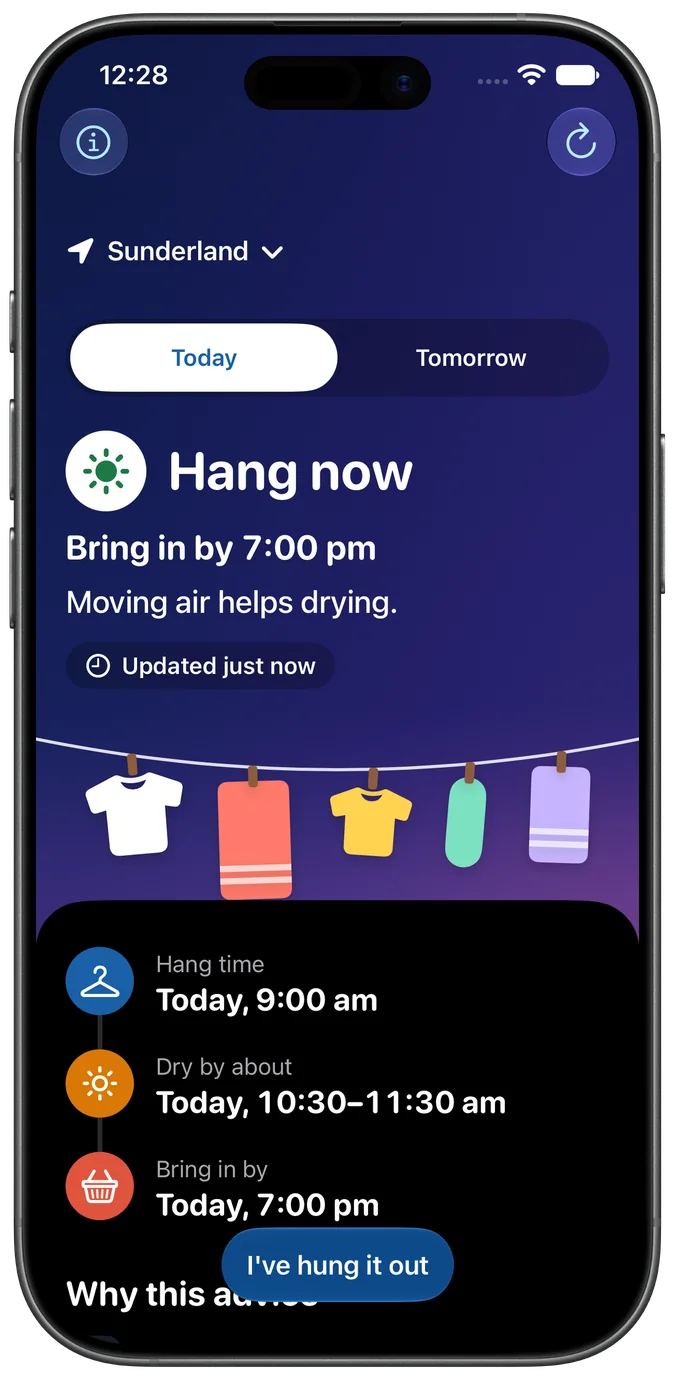
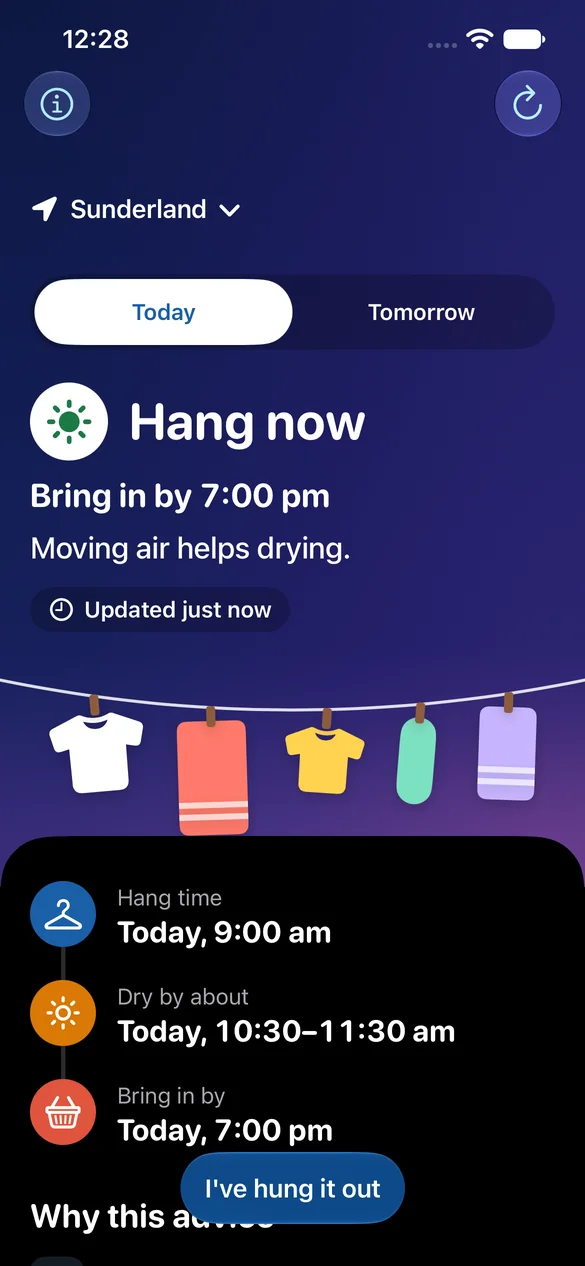
Apply coordinator review of the PegCast page
- Show the phone screens in a neutral rounded frame, with no
  Dynamic Island or buttons, on the page and the Open Graph image.
- Give each light and dark screenshot its own alt text. CSS hides
  the other version, so a screen reader reads only one.
- Give the dark hero images the same loading priority as the light.
- Remove the unused privacy link branch and the .badge rule.
- The canonical URL and og:url stay https://deancod.es/pegcast/.

diff --git a/src/app/pegcast/page.tsx b/src/app/pegcast/page.tsx
@@ -2,7 +2,7 @@ import type { Metadata, Viewport } from "next";
 import { Nunito } from "next/font/google";
 import Link from "next/link";
 import SiteFooter from "@/components/SiteFooter";
-import ThemedImage from "./ThemedImage";
+import ThemedImage, { type Themed } from "./ThemedImage";
 import WashingLine from "./WashingLine";
 import styles from "./pegcast.module.css";
 
@@ -54,19 +54,38 @@ export const viewport: Viewport = {
   ],
 };
 
-/** The PegCast privacy notice. It has no public address until the app's site is published. */
-const privacyNoticeUrl: string | null = null;
-
-const homeAlt =
-  "PegCast Home screen for Sunderland. The sky says Hang now, bring in by 7:00 pm, because moving air helps drying. Below are three times for today: hang at 9:00 am, dry by about 10:30 to 11:30 am, and bring in by 7:00 pm. The button at the bottom says I've hung it out.";
-const loadPlanAlt =
-  "The Load Plan screen. The washing is on the line in Sunderland. Bring in by today, 7:00 pm, checked today at 9:00 am. Two switches, both off, set a reminder at 7:00 pm and show the plan on the Lock Screen.";
-const widgetAlt =
-  "A small Home Screen widget on a blue sky. It says On the line, bring in by today, 7:00 pm, saved and checked at 9:00 am.";
-const liveActivityAlt =
-  "A Live Activity on the Lock Screen. It says bring in by today, 7:00 pm, 10 hours, 0 minutes left, saved and checked at 9:00 am.";
-const chartAlt =
-  "Weather details with two charts across the day. The rain chance is 0% in every hour. The wind is 7 mph in every hour. A shaded band marks the daylight hours.";
+const homeAlt: Themed = {
+  light:
+    "PegCast Home screen for Sunderland, under a blue day sky. The sky says Hang now, bring in by 7:00 pm, because moving air helps drying. Below, on a white sheet, are three times for today: hang at 9:00 am, dry by about 10:30 to 11:30 am, and bring in by 7:00 pm. The button at the bottom says I've hung it out.",
+  dark:
+    "PegCast Home screen for Sunderland, under a navy and purple night sky. The sky says Hang now, bring in by 7:00 pm, because moving air helps drying. Below, on a black sheet, are three times for today: hang at 9:00 am, dry by about 10:30 to 11:30 am, and bring in by 7:00 pm. The button at the bottom says I've hung it out.",
+};
+const loadPlanAlt: Themed = {
+  light:
+    "The Load Plan screen, with a blue card on a white screen. The washing is on the line in Sunderland. Bring in by today, 7:00 pm, checked today at 9:00 am. Two switches, both off, set a reminder at 7:00 pm and show the plan on the Lock Screen.",
+  dark:
+    "The Load Plan screen, with a navy card on a black screen. The washing is on the line in Sunderland. Bring in by today, 7:00 pm, checked today at 9:00 am. Two switches, both off, set a reminder at 7:00 pm and show the plan on the Lock Screen.",
+};
+const widgetAlt: Themed = {
+  light:
+    "A small Home Screen widget on a blue day sky. It says On the line, bring in by today, 7:00 pm, saved and checked at 9:00 am.",
+  dark:
+    "A small Home Screen widget on a navy and purple night sky. It says On the line, bring in by today, 7:00 pm, saved and checked at 9:00 am.",
+};
+const liveActivityAlt: Themed = {
+  light:
+    "A Live Activity on the Lock Screen, on a blue day sky. It says bring in by today, 7:00 pm, 10 hours, 0 minutes left, saved and checked at 9:00 am.",
+  dark:
+    "A Live Activity on the Lock Screen, on a navy and purple night sky. It says bring in by today, 7:00 pm, 10 hours, 0 minutes left, saved and checked at 9:00 am.",
+};
+const chartAlt: Themed = {
+  light:
+    "Weather details on a white background, with two charts across the day. The rain chance is 0% in every hour. The wind is 7 mph in every hour. A pale orange band marks the daylight hours.",
+  dark:
+    "Weather details on a black background, with two charts across the day. The rain chance is 0% in every hour. The wind is 7 mph in every hour. A dark brown band marks the daylight hours.",
+};
+/** The app icon sits beside the name "PegCast", so it is decoration. */
+const decorative: Themed = { light: "", dark: "" };
 
 const steps = [
   {
@@ -122,9 +141,11 @@ export default function PegCastPage() {
             <div className="max-w-xl">
               <div className="flex items-center gap-4">
                 <ThemedImage
-                  light="/pegcast/app-icon-light.webp"
-                  dark="/pegcast/app-icon-dark.webp"
-                  alt=""
+                  src={{
+                    light: "/pegcast/app-icon-light.webp",
+                    dark: "/pegcast/app-icon-dark.webp",
+                  }}
+                  alt={decorative}
                   width={240}
                   height={240}
                   priority
@@ -152,15 +173,17 @@ export default function PegCastPage() {
               </p>
             </div>
 
-            <div className="mx-auto w-64 sm:w-72 lg:w-80">
+            <div className={`${styles.frame} mx-auto w-64 sm:w-72 lg:w-80`}>
               <ThemedImage
-                light="/pegcast/home-light.webp"
-                dark="/pegcast/home-dark.webp"
+                src={{
+                  light: "/pegcast/home-light.webp",
+                  dark: "/pegcast/home-dark.webp",
+                }}
                 alt={homeAlt}
-                width={675}
-                height={1380}
+                width={585}
+                height={1266}
                 priority
-                className={`${styles.phone} h-auto w-full`}
+                className="h-auto w-full"
               />
             </div>
           </section>
@@ -216,14 +239,16 @@ export default function PegCastPage() {
             </h2>
 
             <div className="mt-12 grid items-center gap-12 md:grid-cols-[auto_1fr] md:gap-20">
-              <div className="mx-auto w-60 sm:w-64">
+              <div className={`${styles.frame} mx-auto w-60 sm:w-64`}>
                 <ThemedImage
-                  light="/pegcast/load-plan-light.webp"
-                  dark="/pegcast/load-plan-dark.webp"
+                  src={{
+                    light: "/pegcast/load-plan-light.webp",
+                    dark: "/pegcast/load-plan-dark.webp",
+                  }}
                   alt={loadPlanAlt}
-                  width={675}
-                  height={1380}
-                  className={`${styles.phone} h-auto w-full`}
+                  width={585}
+                  height={1266}
+                  className="h-auto w-full"
                 />
               </div>
               <div className="grid max-w-xl gap-9">
@@ -256,16 +281,20 @@ export default function PegCastPage() {
               </div>
               <div className="flex flex-col items-center gap-6 sm:flex-row sm:items-end md:flex-col md:items-start lg:flex-row lg:items-end">
                 <ThemedImage
-                  light="/pegcast/widget-light.webp"
-                  dark="/pegcast/widget-dark.webp"
+                  src={{
+                    light: "/pegcast/widget-light.webp",
+                    dark: "/pegcast/widget-dark.webp",
+                  }}
                   alt={widgetAlt}
                   width={334}
                   height={334}
                   className={`${styles.tile} h-auto w-[170px]`}
                 />
                 <ThemedImage
-                  light="/pegcast/live-activity-light.webp"
-                  dark="/pegcast/live-activity-dark.webp"
+                  src={{
+                    light: "/pegcast/live-activity-light.webp",
+                    dark: "/pegcast/live-activity-dark.webp",
+                  }}
                   alt={liveActivityAlt}
                   width={710}
                   height={257}
@@ -279,8 +308,10 @@ export default function PegCastPage() {
                 className={`${styles.panel} mx-auto w-full max-w-md overflow-hidden rounded-[20px] p-2`}
               >
                 <ThemedImage
-                  light="/pegcast/weather-chart-light.webp"
-                  dark="/pegcast/weather-chart-dark.webp"
+                  src={{
+                    light: "/pegcast/weather-chart-light.webp",
+                    dark: "/pegcast/weather-chart-dark.webp",
+                  }}
                   alt={chartAlt}
                   width={780}
                   height={673}
@@ -321,15 +352,6 @@ export default function PegCastPage() {
                 <p className={`${styles.muted} mt-3 text-lg leading-relaxed`}>
                   No account, no adverts or tracking, and your plans stay on
                   your iPhone.
-                  {privacyNoticeUrl && (
-                    <>
-                      {" "}
-                      <a href={privacyNoticeUrl} className={styles.accentLink}>
-                        Read the PegCast privacy notice
-                      </a>
-                      .
-                    </>
-                  )}
                 </p>
               </div>
             </div>

diff --git a/src/app/pegcast/ThemedImage.tsx b/src/app/pegcast/ThemedImage.tsx
@@ -1,38 +1,44 @@
 import { getImageProps } from "next/image";
+import styles from "./pegcast.module.css";
+
+/** One value for each appearance. */
+export type Themed = { light: string; dark: string };
 
 type ThemedImageProps = {
-  light: string;
-  dark: string;
-  alt: string;
+  src: Themed;
+  alt: Themed;
   width: number;
   height: number;
   className?: string;
   priority?: boolean;
 };
 
-/** One screenshot with a light and a dark version. The browser picks the one for its appearance. */
+/**
+ * One screenshot with a light and a dark version, each with its own alt text.
+ * CSS hides the version for the other appearance with `display: none`, so screen readers
+ * read only the alt text of the image on screen. Both versions get the same priority.
+ */
 export default function ThemedImage({
-  light,
-  dark,
+  src,
   alt,
   width,
   height,
-  className,
+  className = "",
   priority = false,
 }: ThemedImageProps) {
-  const shared = { alt, width, height };
-  const { props: darkProps } = getImageProps({ ...shared, src: dark });
-  const { props: lightProps } = getImageProps({ ...shared, src: light, priority });
-
-  return (
-    <picture>
-      <source
-        media="(prefers-color-scheme: dark)"
-        srcSet={darkProps.srcSet ?? darkProps.src}
-      />
-      {/* getImageProps supplies the attributes. A <picture> needs a plain <img> inside it. */}
-      {/* eslint-disable-next-line jsx-a11y/alt-text */}
-      <img {...lightProps} className={className} />
-    </picture>
-  );
+  return (["light", "dark"] as const).map((appearance) => {
+    const { props } = getImageProps({
+      src: src[appearance],
+      alt: alt[appearance],
+      width,
+      height,
+      priority,
+    });
+    const visibility = appearance === "light" ? styles.lightOnly : styles.darkOnly;
+    return (
+      // A <picture> cannot give each source its own alt text, so each version is an <img>.
+      // eslint-disable-next-line jsx-a11y/alt-text, @next/next/no-img-element
+      <img key={appearance} {...props} className={`${visibility} ${className}`} />
+    );
+  });
 }

diff --git a/src/app/pegcast/pegcast.module.css b/src/app/pegcast/pegcast.module.css
@@ -116,13 +116,6 @@
   background: var(--pill-shade);
 }
 
-.badge {
-  display: grid;
-  place-items: center;
-  border-radius: 9999px;
-  background: #ffffff;
-}
-
 /* The washing line crosses the sky's light band. */
 .line {
   position: relative;
@@ -240,12 +233,37 @@
   background: var(--bring-in-step);
 }
 
-.phone {
-  filter: drop-shadow(0 30px 40px rgb(0 0 0 / 0.28));
+/* A neutral rounded frame. It does not copy any iPhone model. */
+.frame {
+  padding: 8px;
+  border-radius: 44px;
+  background: #1c1c1e;
+  box-shadow:
+    inset 0 0 0 1px rgb(255 255 255 / 0.14),
+    0 30px 50px rgb(0 0 0 / 0.28);
+}
+
+.frame img {
+  border-radius: 36px;
 }
 
 .tile {
   filter: drop-shadow(0 12px 24px rgb(0 0 0 / 0.18));
+}
+
+/* Each screenshot has a light and a dark image. Only the one for this appearance shows. */
+.darkOnly {
+  display: none;
+}
+
+@media (prefers-color-scheme: dark) {
+  .lightOnly {
+    display: none;
+  }
+
+  .darkOnly {
+    display: block;
+  }
 }
 
 @media (prefers-reduced-motion: reduce) {
